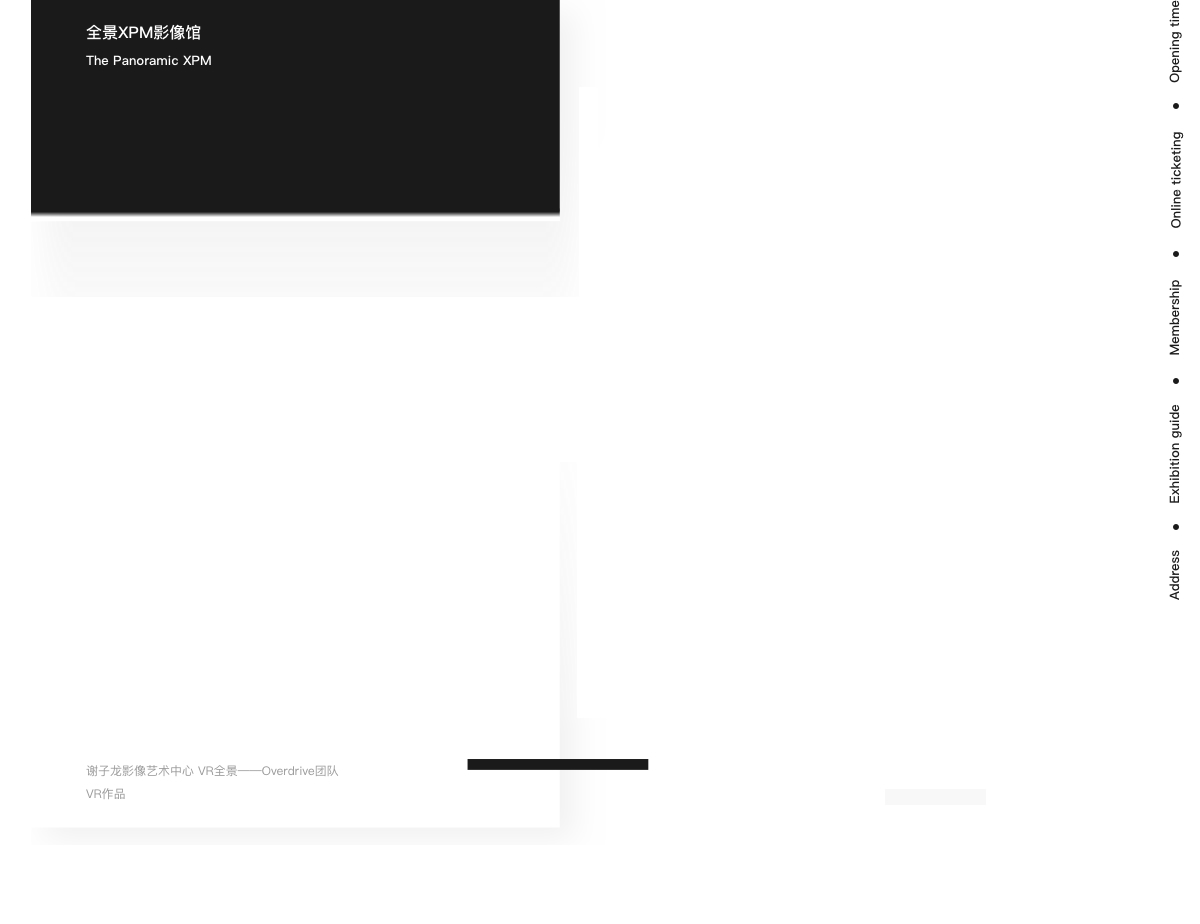
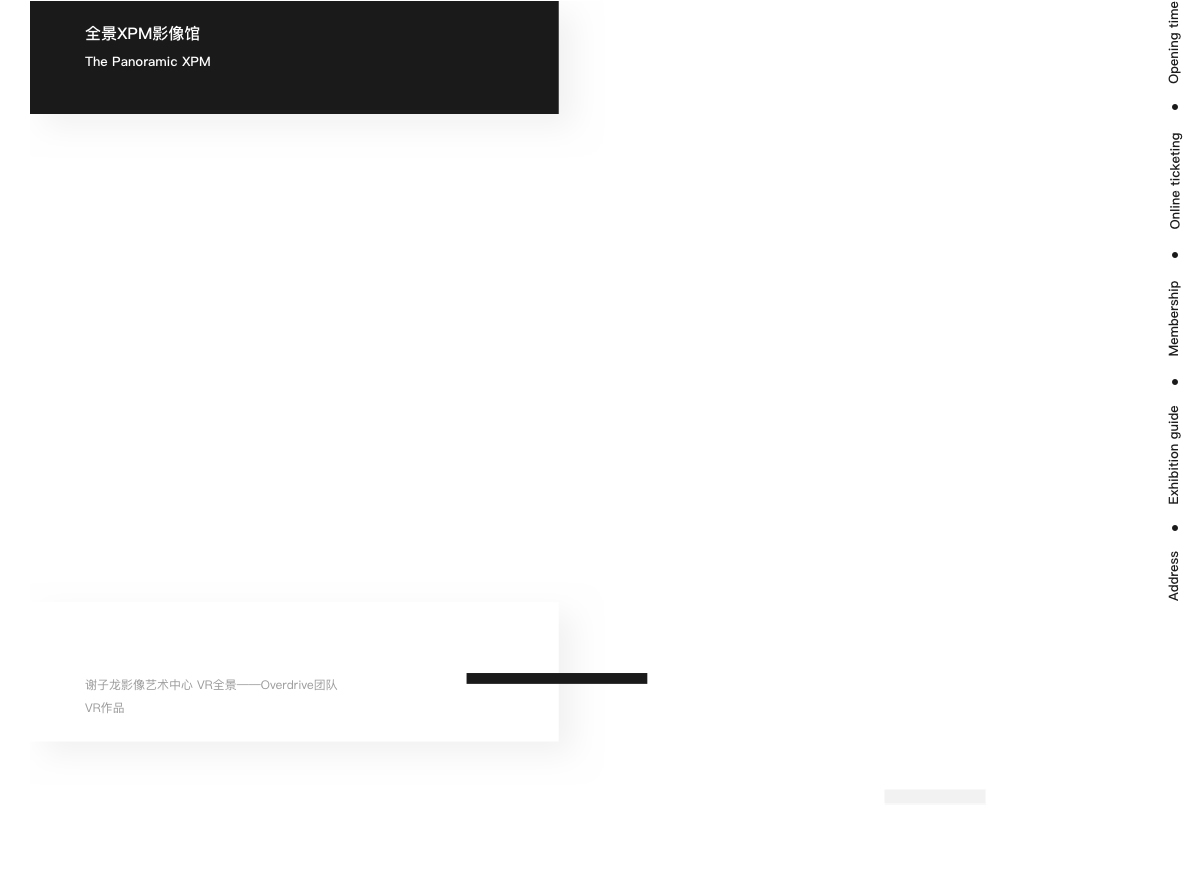
update

diff --git a/css/detail.css b/css/detail.css
@@ -505,24 +505,23 @@
 	background: #FFFFFF;
 	text-align: center;
 	border: 1px solid #EBEBEB;
-	width: 106px;
+	width: 74px;
 	height: auto;
 }
 
 .newsTop .orcode span {
 	display: block;
 	font-size: 12px;
-	line-height: 22px;
+	line-height: 19px;
 	border-bottom: 1px solid #EBEBEB;
 }
 
 .newsTop .orcode div {
-	padding: 3px 3px;
+	padding: 3px 2px;
 }
 
 .newsTop .orcode div img {
-	height: 98px;
-	height: 98px;
+	width: 68px;
 }
 
 .newsText {
@@ -830,9 +829,9 @@
 	width: 100%;
 }
 .visitPage .VRbox {
-	height: 924px;
+	height: 880px;
 	margin-top: 50px;
-	padding: 150px 0 0;
+     padding: 136px 0 0;
 	background: url(../img/XPM/visit0.jpg) no-repeat center;
 }
 .visitPage .VRbox iframe {

diff --git a/XPM/visit.html b/XPM/visit.html
@@ -21,7 +21,7 @@
 			</div>
 			<div class="tabs-content">
 				<div class="VRbox">
-					<iframe width="1080" height="512" frameborder="0"  scrolling="no" src="../index2.html"></iframe>
+					<iframe width="1033" height="488" frameborder="0"  scrolling="no" src="../index2.html"></iframe>
 				</div>
 				<img src="../img/XPM/visit1.jpg" />
 				<img src="../img/XPM/visit2.jpg" usemap ="#vipmap" />

diff --git a/css/news.css b/css/news.css
@@ -118,12 +118,13 @@
 	right: 50px;
 	bottom: 35px;
 	width: auto;
-	height: 130px;
+	min-width: 172px;
+	height: 100px;
 }
 .artTop .or .orcode  {
 	position:static;	
      display: inline-block;
-     margin-left: 20px;
+     margin-left: 10px;
 }
 ul.artFace li {
 	display: inline-block;
